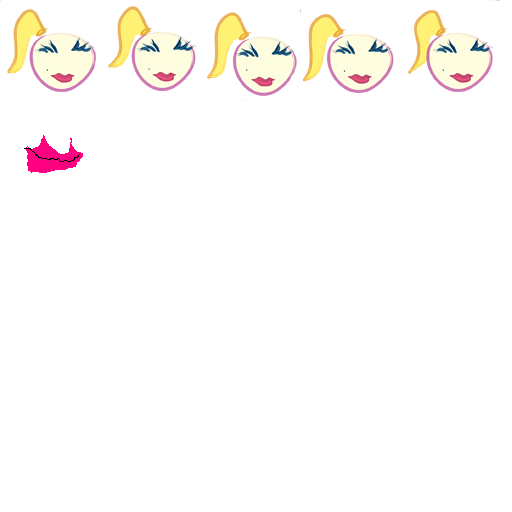
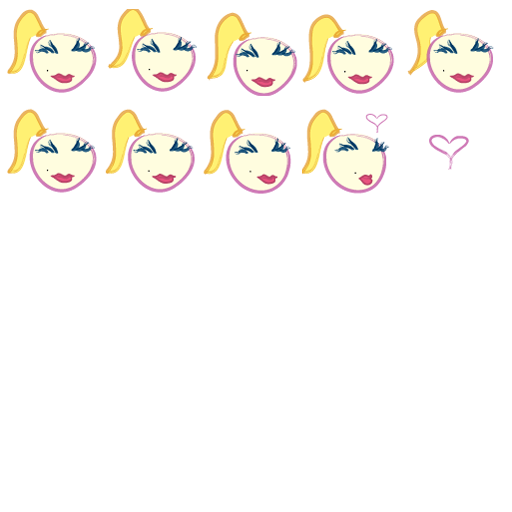
New images from dan, also added some working into game_state and defines.

diff --git a/src/game_state.cpp b/src/game_state.cpp
@@ -246,7 +246,9 @@ void Game_State::update(int &delta)
     {
       map->calculate_location(specials.at(i), x, y);
       if (specials.at(i)->get_bounce() && specials.at(i)->get_jump() &&
-          y > specials.at(i)->get_jump())
+          y > specials.at(i)->get_jump() &&
+          !(specials.at(i)->get_type() == KURT &&
+           ((Kurt*)specials.at(i))->get_ability()))
       {
         specials.at(i)->setVSpeed(-GRAVITY_SPEED);
       }
@@ -263,7 +265,9 @@ void Game_State::update(int &delta)
         }
         
         // if we are not a jumper reset gravity
-        if (specials.at(i)->get_type() != JUMPER)
+        if (specials.at(i)->get_type() != JUMPER &&
+            !(specials.at(i)->get_type() == KURT &&
+              ((Kurt*)specials.at(i))->get_ability()))
         {
           specials.at(i)->setVSpeed(GRAVITY_SPEED);
         }
@@ -348,7 +352,9 @@ void Game_State::update(int &delta)
           c->set_jump(0);
           c->set_bounce(false);
         }
-        else if (c->will_collide_rubber_y(map))
+        else if (c->will_collide_rubber_y(map) &&
+                 !(((Special *)c)->get_type() == KURT &&
+                    ((Kurt*)c)->get_ability()))
         {
           c->setVSpeed(-GRAVITY_SPEED);
           c->set_bounce(true);
@@ -370,7 +376,9 @@ void Game_State::update(int &delta)
         specials.at(i)->set_jump(0);
         specials.at(i)->set_bounce(false);
       }
-      else if (specials.at(i)->will_collide_rubber_y(map))
+      else if (specials.at(i)->will_collide_rubber_y(map) &&
+               !(specials.at(i)->get_type() == KURT &&
+                 ((Kurt*)specials.at(i))->get_ability()))
       {
         specials.at(i)->setVSpeed(-GRAVITY_SPEED);
         specials.at(i)->set_bounce(true);
@@ -816,12 +824,22 @@ void Game_State::update(int &delta)
             }
             specials.at(i)->setHSpeed((int)temp_speed);
           }
-          else if (specials.at(i)->get_type() == KURT)
+          else if (specials.at(i)->get_type() == KURT &&
+                   !((Kurt *)specials.at(i))->blocks_summoned())
           {
             moveables = ((Kurt *)specials.at(i))->enable_ability(map, i, p, moveables, specials);
           }
-          specials.at(i)->set_cur_frame(1);
-          specials.at(i)->set_tex_num(SPECIAL);
+          if (specials.at(i)->get_type() == KURT &&
+              ((Kurt*)specials.at(i))->get_ability())
+          {
+            specials.at(i)->set_cur_frame((specials.at(i)->get_cur_frame() + 1) %
+                                          KURT_ABILITY_FRAMES + 2);
+          }
+          else
+          {
+            specials.at(i)->set_cur_frame(1);
+            specials.at(i)->set_tex_num(SPECIAL);
+          }
         }
       }
       else if ((specials.at(i)->get_type() == ENGINEER &&

diff --git a/src/defines.h b/src/defines.h
@@ -92,8 +92,9 @@
 #define ENGINEER_BUTTON_NUM 5
 
 #define KURT_GUITAR_NUM 5
+#define KURT_ABILITY_FRAMES 3
 
-#define PARIS_KISS_NUM 1
+#define PARIS_KISS_NUM 5
 #define PARIS_KISS_RANGE 15
 
 #define LAST_LEVEL 3
